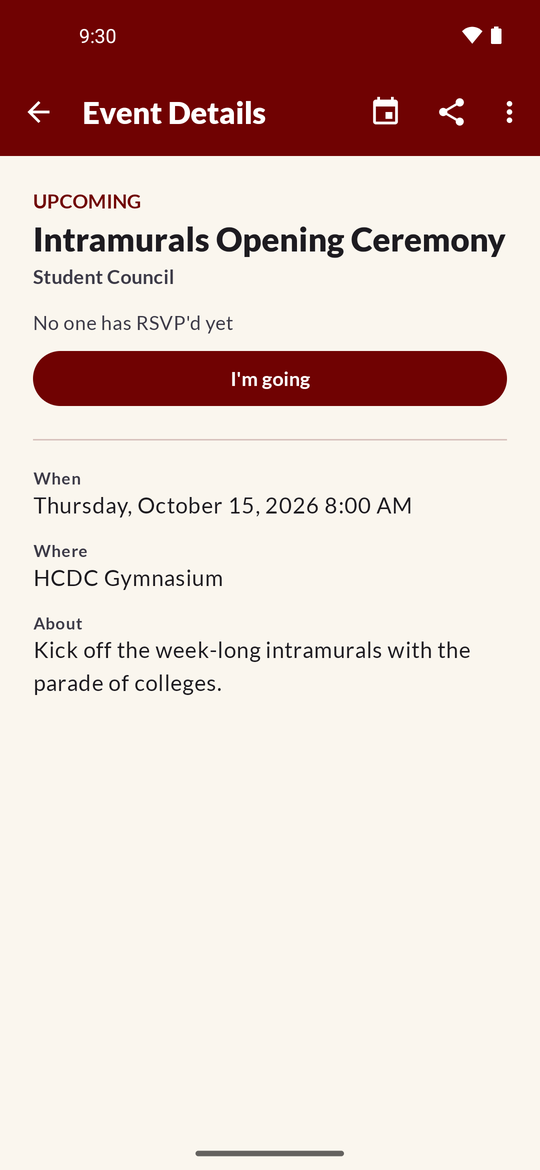
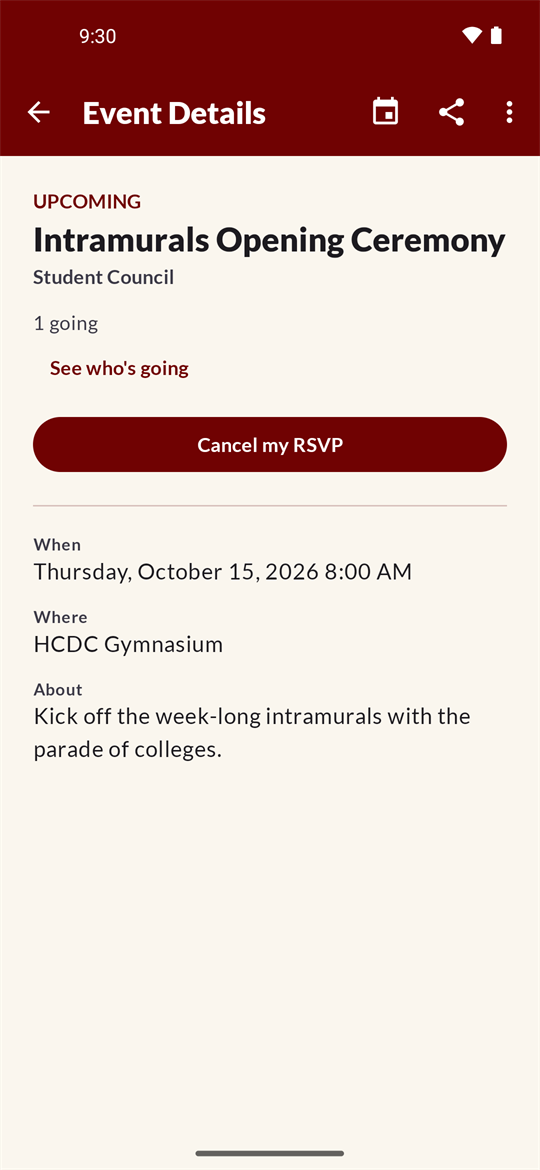
Document the admin RSVP list in the README and changelog

Changed region(s): [[0.0593, 0.2462, 0.9481, 0.6462], [0.563, 0.5538, 0.8, 0.6154], [0.8296, 0.5538, 0.8593, 0.6154]]

diff --git a/README.md b/README.md
@@ -26,21 +26,21 @@ Organizers get the **New event** button and can post only for their own club. Th
 
 | Sign in | Events dashboard | Event details |
 |:---:|:---:|:---:|
-| <img src="docs/screenshots/login.png" width="240" alt="Sign-in screen"> | <img src="docs/screenshots/dashboard.png" width="240" alt="Events dashboard"> | <img src="docs/screenshots/event-details.png" width="240" alt="Event details with RSVP button"> |
+| <img src="docs/screenshots/login.png" width="240" alt="Sign-in screen"> | <img src="docs/screenshots/dashboard.png" width="240" alt="Events dashboard"> | <img src="docs/screenshots/event-details.png" width="240" alt="Event details with RSVP button and the admin's See who's going link"> |
 | **New event** | **Manage users & clubs** | **Dark mode** |
 | <img src="docs/screenshots/new-event.png" width="240" alt="New event form"> | <img src="docs/screenshots/manage-users.png" width="240" alt="Admin screen for managing users and clubs"> | <img src="docs/screenshots/dashboard-dark.png" width="240" alt="Events dashboard in dark mode"> |
 
 ## Features
 
 - **Event dashboard:** a live list of campus events with search, club filter chips, and tabs. Pull down to refresh.
-- **Event details and RSVP:** open an event to see when and where it is and what it's about, mark yourself as going, or share it.
+- **Event details and RSVP:** open an event to see when and where it is and what it's about, mark yourself as going, or share it. Admins can also tap **See who's going** to list the emails of everyone who RSVP'd.
 - **Event reminders:** a notification before events you've RSVP'd to.
 - **Event status:** Upcoming, Ongoing, Completed or Cancelled. Events that have already started show as Completed automatically.
 - **Campus time:** event times are always shown and entered in Asia/Manila time, whatever time zone the device is set to.
 - **Roles:**
   - **Student:** any signed-in user without another role. Can view events and RSVP. The **New event** button and **Manage users & clubs** menu item are hidden.
   - **Organizer:** belongs to one club. Can create, edit and cancel that club's events.
-  - **Admin:** can manage every event, club and organizer, and other admins. Admins can also delete any user except themselves: tap the user in **Manage users & clubs**, then **Delete this user**.
+  - **Admin:** can manage every event, club and organizer, and other admins, and can see who RSVP'd to each event. Admins can also delete any user except themselves: tap the user in **Manage users & clubs**, then **Delete this user**.
 - **HCDC branding:** maroon and gold theme and the Lato font, with light and dark mode.
 
 ## Tech stack
@@ -108,7 +108,7 @@ The code is in `LoginActivity` (button), `LoginViewModel.sendPasswordReset()` (e
 
 | Collection | Document ID | Contents |
 |---|---|---|
-| `events` | auto | `title`, `organizerClub`, `date`, `location`, `description`, `status`, `createdBy`, `attendees` |
+| `events` | auto | `title`, `organizerClub`, `date`, `location`, `description`, `status`, `createdBy`, `attendees` (UIDs of the users going) |
 | `clubs` | club name | One document per club |
 | `organizers` | user UID | `email`, `clubs` (at most one club) |
 | `admins` | user UID | Marks the user as an admin |

diff --git a/CHANGELOG.md b/CHANGELOG.md
@@ -8,6 +8,7 @@ The format is based on [Keep a Changelog](https://keepachangelog.com/en/1.1.0/).
 
 ### Added
 
+- Admins can see who RSVP'd to an event. On the event's details, tap **See who's going** under the count to list the emails of everyone going. Students and organizers still see only the count.
 - Admins can delete users. In **Manage users & clubs**, tap a user, then **Delete this user**, then confirm. The user is signed out and blocked from the app, and their roles and RSVPs are removed. Events they posted stay. Admins can't delete themselves.
 - A **Student** role label for signed-in users who aren't admins or organizers. It shows in the dashboard header and in **Manage users & clubs**, where it replaces "Member".
 - A "Signed in as <email>" line at the top of the dashboard's ⋮ menu.
